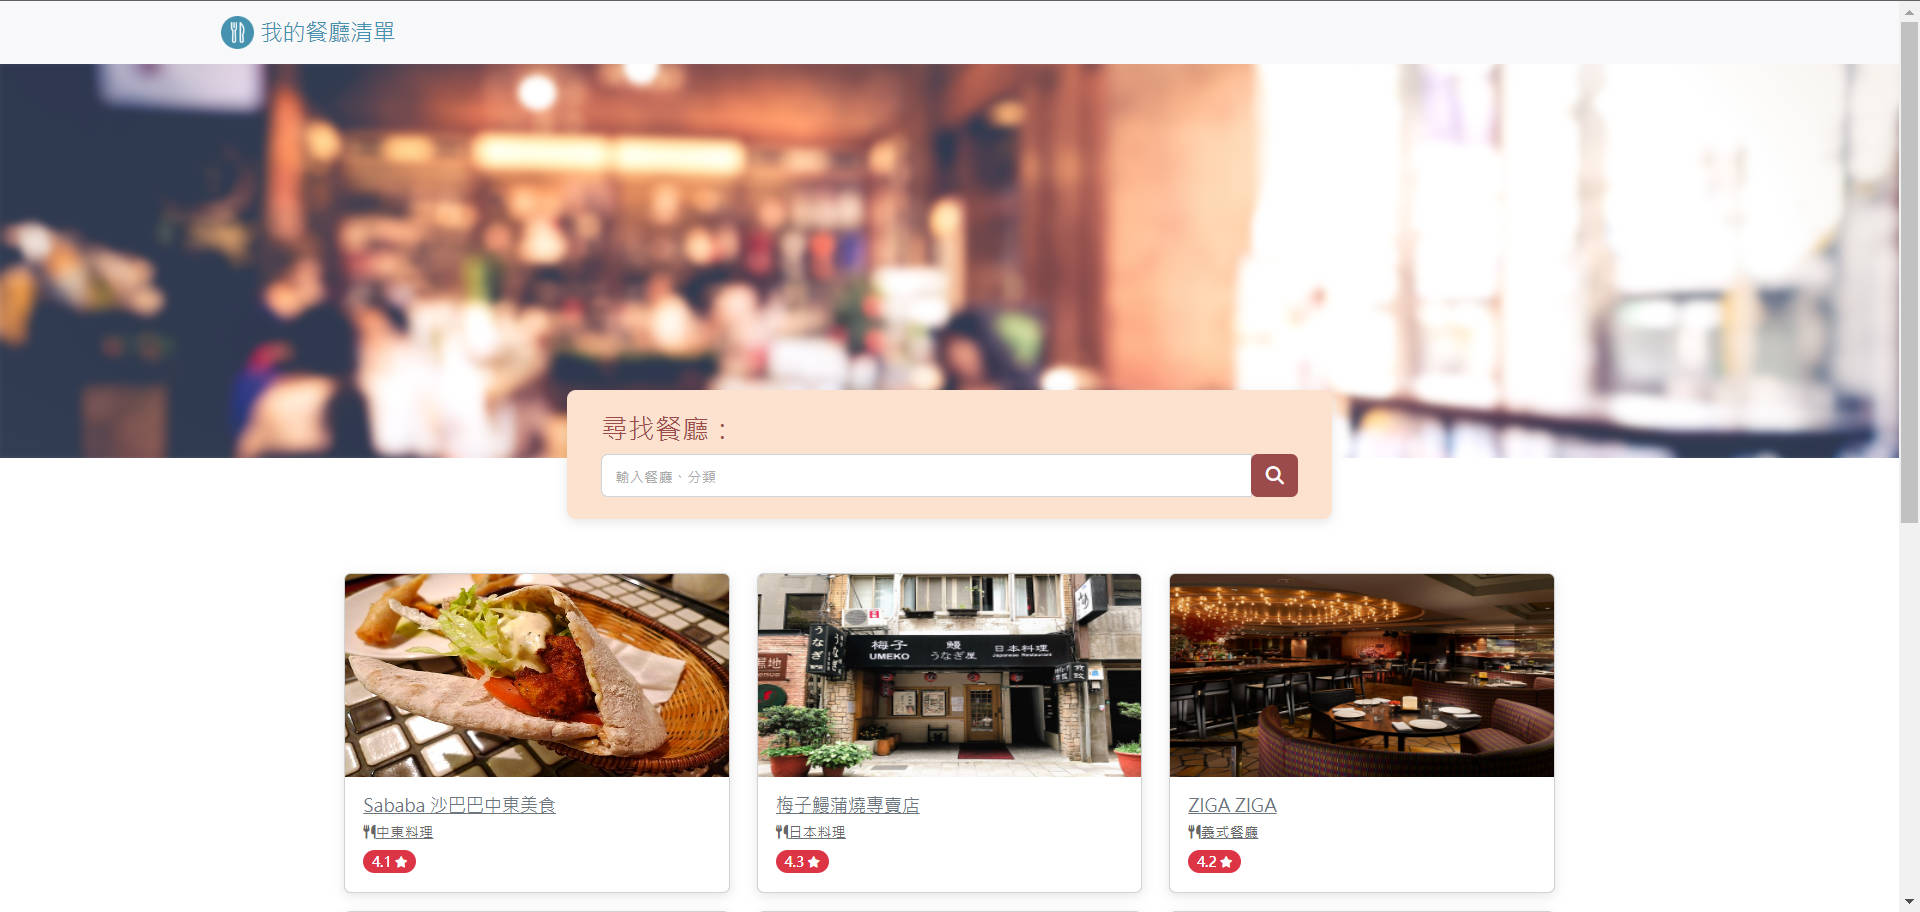
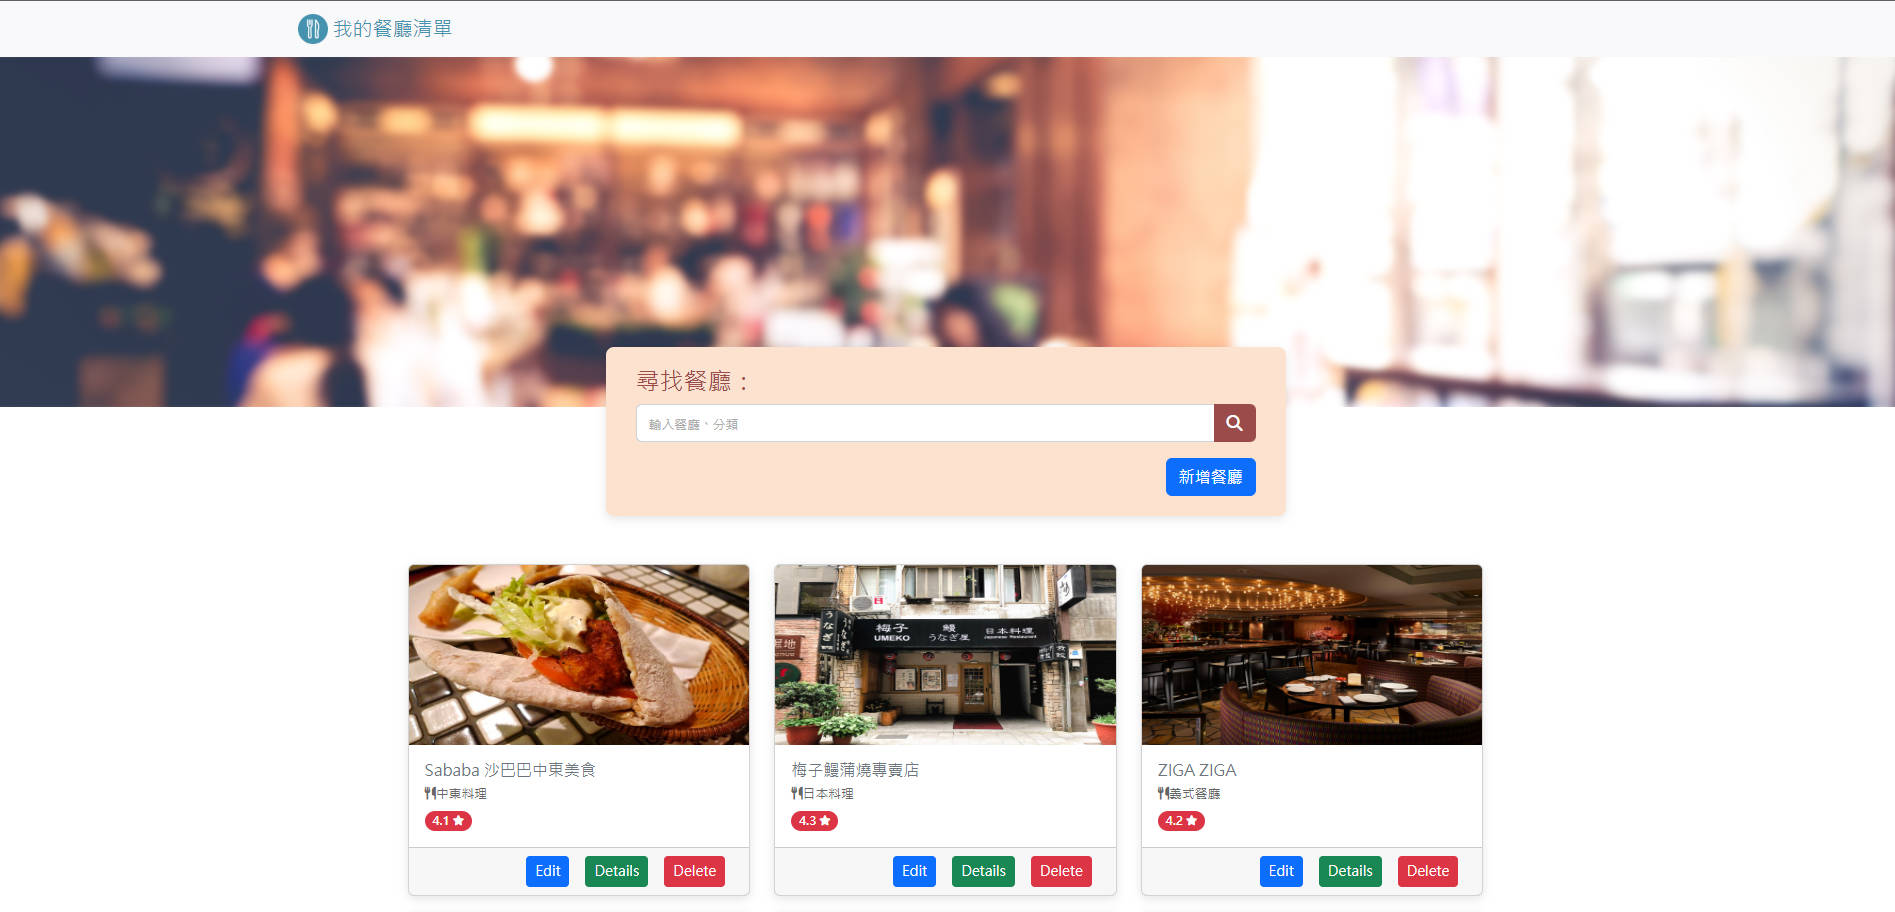
feat: modify README.md

diff --git a/README.md b/README.md
@@ -6,59 +6,38 @@
 ![image](https://github.com/Peter-Huang888/RESTAURANT-LIST/blob/main/public/img/restaurantInfo.jpg)
 
 ## Features - 產品功能
-1. 使用者可以在首頁看到所有餐廳與它們的簡單資料：
-  - 餐廳照片
-  - 餐廳名稱
-  - 餐廳分類
-  - 餐廳評分
-2. 使用者可以再點進去看餐廳的詳細資訊：
-  - 類別
-  - 地址
-  - 電話
-  - 描述
-  - 圖片
-3. 使用者可以透過搜尋餐廳名稱來找到特定的餐廳
-4. 使用者可以透過搜尋餐廳類別來找到特定的餐廳
+1. 使用者可以新增一家餐廳
+2. 使用者可以瀏覽一家餐廳的詳細資訊
+3. 使用者可以瀏覽全部所有餐廳
+4. 使用者可以修改一家餐廳的資訊
+5. 使用者可以刪除一家餐廳
 
 ## Environment Setup -環境建置
-1. [Node.js](https://nodejs.org/en/)
+1. 請先確認有安裝 node.js 與 npm
+2. 將專案 clone 到本地
+3. 在本地開啟之後，透過終端機進入資料夾，輸入：
 
-## Installing - 專案安裝流程
-1. 打開你的 terminal，Clone 此專案至本機電腦
+   ```bash
+   npm install
+   ```
 
-```
-git clone https://github.com/Peter-Huang888/RESTAURANT-LIST.git
-```
+4. 安裝完畢後，繼續輸入：
 
-2. 開啟終端機(Terminal)，進入存放此專案的資料夾
+   ```bash
+   npm run start
+   ```
 
-```
-cd RESTAURANT-LIST
-```
+5. 若看見此行訊息則代表順利運行，打開瀏覽器進入到以下網址
 
-3. 安裝 npm 套件
+   ```bash
+   Welcome to my restaurant website: http://localhost:3000
+   ```
 
-```
-在 Terminal 輸入 npm install 指令
-```
+6. 若欲暫停使用
 
-4. 安裝 nodemon 套件
-
-```
-在 Terminal 輸入 nodemon app.js 指令
-```
-
-5. 啟動伺服器，執行 app.js 檔案
-
-```
-nodemon app.js
-```
-
-6. 當 terminal 出現以下字樣，表示伺服器與資料庫已啟動並成功連結
-
-```
-Welcome to my restaurant website: http://localhost:3000
-```
+   ```bash
+   ctrl + c
+   ```
 
 現在，你可開啟任一瀏覽器瀏覽器輸入 [http://localhost:3000](http://localhost:3000) 開始使用我的美食網囉！
 
@@ -66,6 +45,9 @@ Welcome to my restaurant website: http://localhost:3000
 - [Visual Studio Code](https://visualstudio.microsoft.com/zh-hant/) - 開發環境
 - [Express](https://www.npmjs.com/package/express) - 應用程式架構
 - [Express-Handlebars](https://www.npmjs.com/package/express-handlebars) - 模板引擎
+- [body-parser](https://www.npmjs.com/package/body-parser)
+- MongoDB
+- [mongoose](https://www.npmjs.com/package/mongoose)
 - Bootstrap 5.2.1
 - Font-awesome 5.8.1
 ## Contributor - 專案開發人員
